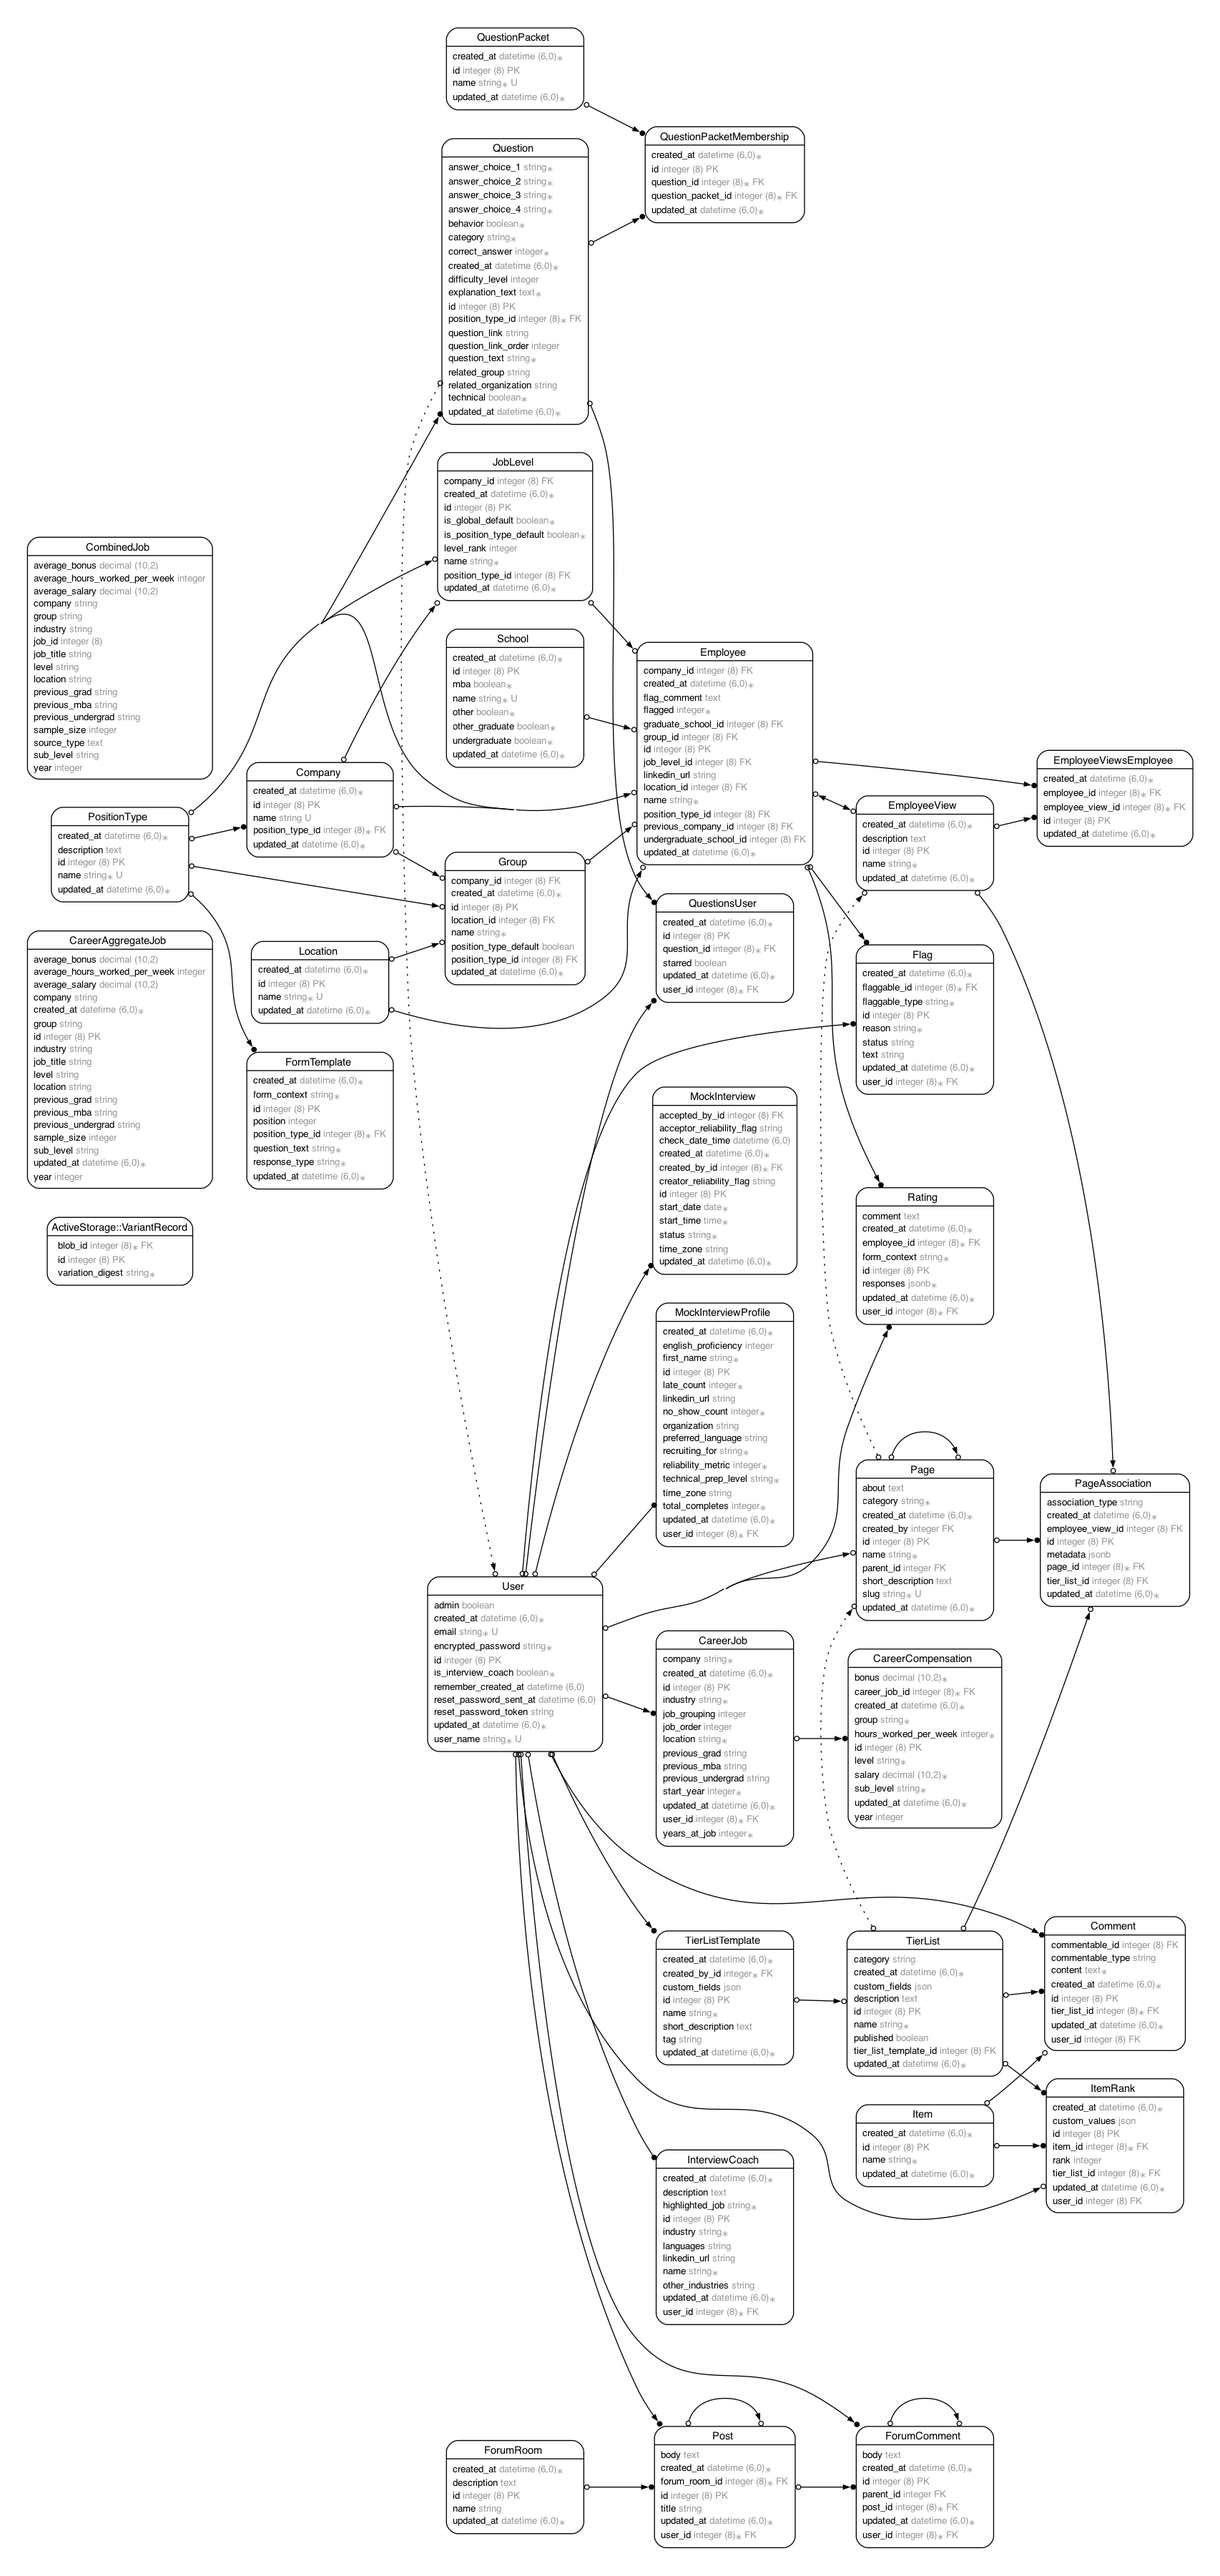
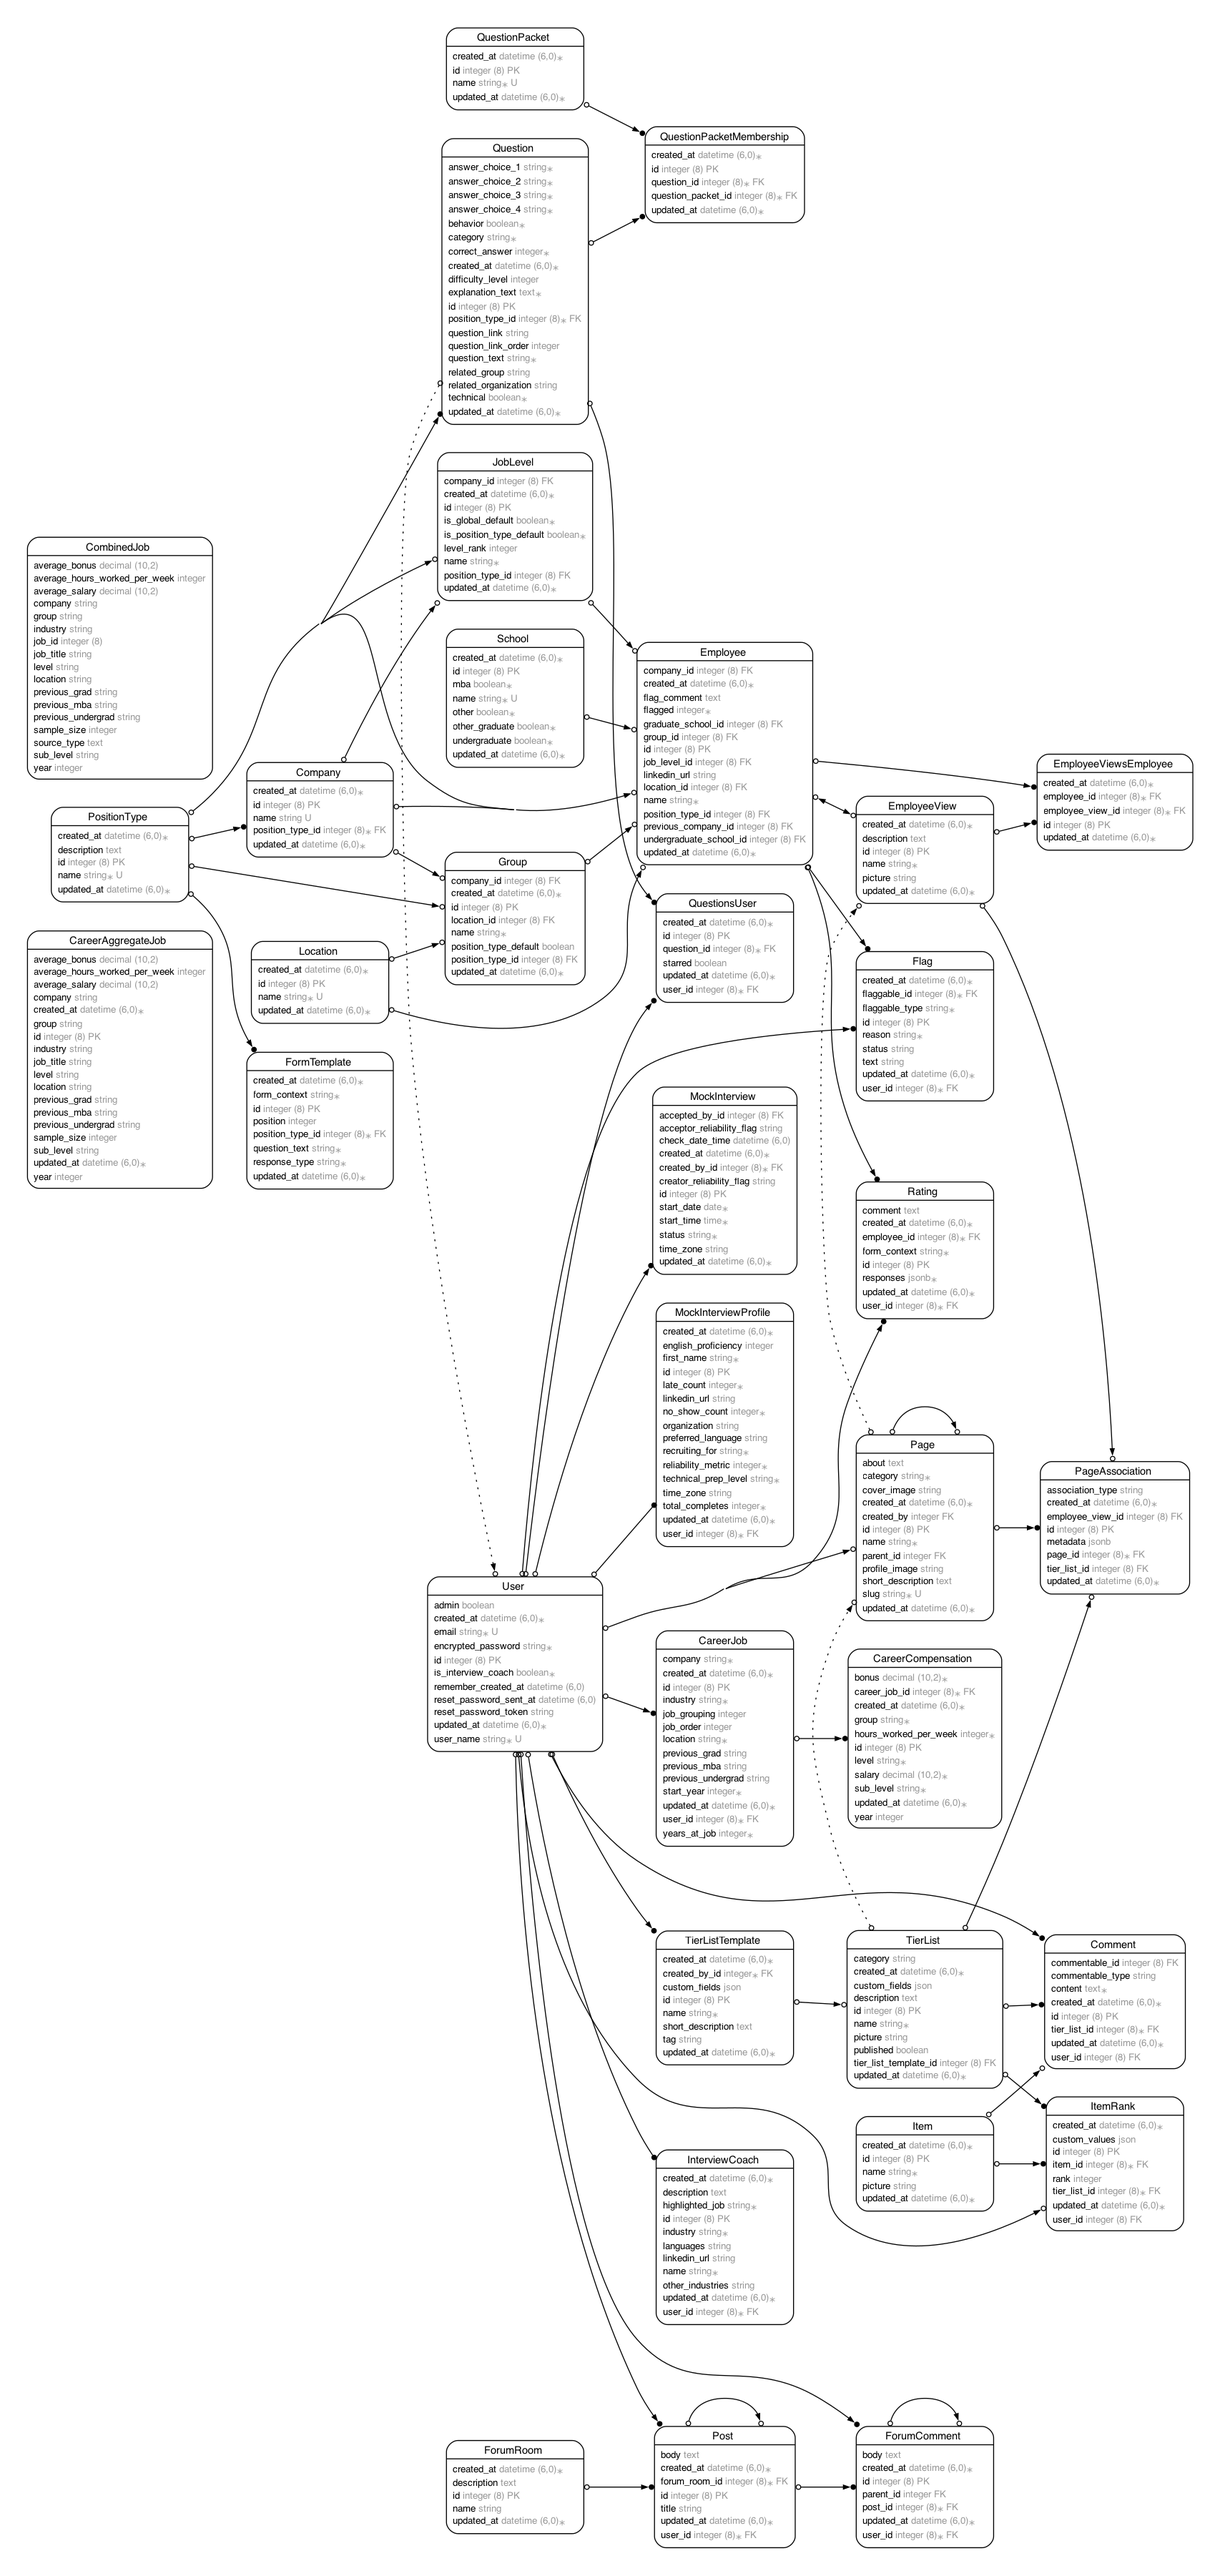
Made some updares to migrate from active storage to carreierwave

diff --git a/db/schema.rb b/db/schema.rb
@@ -10,27 +10,9 @@
 #
 # It's strongly recommended that you check this file into your version control system.
 
-ActiveRecord::Schema[7.1].define(version: 2025_02_14_000042) do
+ActiveRecord::Schema[7.1].define(version: 2025_02_14_133054) do
   # These are extensions that must be enabled in order to support this database
   enable_extension "plpgsql"
-
-  create_table "active_storage_blobs", force: :cascade do |t|
-    t.string "key", null: false
-    t.string "filename", null: false
-    t.string "content_type"
-    t.text "metadata"
-    t.string "service_name", null: false
-    t.bigint "byte_size", null: false
-    t.string "checksum"
-    t.datetime "created_at", null: false
-    t.index ["key"], name: "index_active_storage_blobs_on_key", unique: true
-  end
-
-  create_table "active_storage_variant_records", force: :cascade do |t|
-    t.bigint "blob_id", null: false
-    t.string "variation_digest", null: false
-    t.index ["blob_id", "variation_digest"], name: "index_active_storage_variant_records_uniqueness", unique: true
-  end
 
   create_table "career_aggregate_jobs", force: :cascade do |t|
     t.string "job_title"
@@ -109,6 +91,7 @@ ActiveRecord::Schema[7.1].define(version: 2025_02_14_000042) do
     t.text "description"
     t.datetime "created_at", null: false
     t.datetime "updated_at", null: false
+    t.string "picture"
   end
 
   create_table "employee_views_employees", force: :cascade do |t|
@@ -235,6 +218,7 @@ ActiveRecord::Schema[7.1].define(version: 2025_02_14_000042) do
     t.string "name"
     t.datetime "created_at", null: false
     t.datetime "updated_at", null: false
+    t.string "picture"
   end
 
   create_table "job_levels", force: :cascade do |t|
@@ -318,6 +302,8 @@ ActiveRecord::Schema[7.1].define(version: 2025_02_14_000042) do
     t.text "about"
     t.datetime "created_at", null: false
     t.datetime "updated_at", null: false
+    t.string "cover_image"
+    t.string "profile_image"
     t.index ["created_by"], name: "index_pages_on_created_by"
     t.index ["parent_id"], name: "index_pages_on_parent_id"
     t.index ["slug"], name: "index_pages_on_slug", unique: true
@@ -432,6 +418,7 @@ ActiveRecord::Schema[7.1].define(version: 2025_02_14_000042) do
     t.datetime "updated_at", null: false
     t.bigint "tier_list_template_id"
     t.string "category"
+    t.string "picture"
     t.index ["tier_list_template_id"], name: "index_tier_lists_on_tier_list_template_id"
   end
 
@@ -451,7 +438,6 @@ ActiveRecord::Schema[7.1].define(version: 2025_02_14_000042) do
     t.index ["user_name"], name: "index_users_on_user_name", unique: true
   end
 
-  add_foreign_key "active_storage_variant_records", "active_storage_blobs", column: "blob_id"
   add_foreign_key "career_compensations", "career_jobs", on_delete: :cascade
   add_foreign_key "career_jobs", "users"
   add_foreign_key "comments", "tier_lists"

diff --git a/app/uploaders/image_uploader.rb b/app/uploaders/image_uploader.rb
@@ -1,0 +1,50 @@
+class ImageUploader < CarrierWave::Uploader::Base
+  # Include RMagick or MiniMagick support:
+  # include CarrierWave::RMagick
+  # include CarrierWave::MiniMagick
+
+  # Choose what kind of storage to use for this uploader:
+  storage :file
+  # storage :fog
+
+  # Override the directory where uploaded files will be stored.
+  # This is a sensible default for uploaders that are meant to be mounted:
+  def store_dir
+    "uploads/#{model.class.to_s.underscore}/#{mounted_as}/#{model.id}"
+  end
+
+  # Provide a default URL as a default if there hasn't been a file uploaded:
+  # def default_url(*args)
+  #   # For Rails 3.1+ asset pipeline compatibility:
+  #   # ActionController::Base.helpers.asset_path("fallback/" + [version_name, "default.png"].compact.join('_'))
+  #
+  #   "/images/fallback/" + [version_name, "default.png"].compact.join('_')
+  # end
+
+  # Process files as they are uploaded:
+  # process scale: [200, 300]
+  #
+  # def scale(width, height)
+  #   # do something
+  # end
+
+  # Create different versions of your uploaded files:
+  version :thumb do
+    process resize_to_fit: [50, 50]
+  end
+
+  version :medium do
+    process resize_to_fit: [300, 300]
+  end
+
+  # Add a white list of extensions which are allowed to be uploaded
+  def extension_allowlist
+    %w(jpg jpeg gif png)
+  end
+
+  # Override the filename of the uploaded files:
+  # Avoid using model.id or version_name here, see uploader/store.rb for details.
+  # def filename
+  #   "something.jpg"
+  # end
+end

diff --git a/app/models/page.rb b/app/models/page.rb
@@ -5,8 +5,10 @@
 #  id                :bigint           not null, primary key
 #  about             :text
 #  category          :string           default("general"), not null
+#  cover_image       :string
 #  created_by        :integer
 #  name              :string           not null
+#  profile_image     :string
 #  short_description :text
 #  slug              :string           not null
 #  created_at        :datetime         not null
@@ -21,8 +23,8 @@
 #
 class Page < ApplicationRecord
 
-  has_one_attached :cover_image
-  has_one_attached :profile_image
+  mount_uploader :cover_image, ImageUploader
+  mount_uploader :profile_image, ImageUploader
 
   has_many :page_associations, dependent: :destroy
   has_many :employee_views, through: :page_associations

diff --git a/app/models/tier_list.rb b/app/models/tier_list.rb
@@ -7,6 +7,7 @@
 #  custom_fields         :json
 #  description           :text
 #  name                  :string           not null
+#  picture               :string
 #  published             :boolean
 #  created_at            :datetime         not null
 #  updated_at            :datetime         not null
@@ -21,6 +22,7 @@
 #  fk_rails_...  (tier_list_template_id => tier_list_templates.id)
 #
 class TierList < ApplicationRecord
+  mount_uploader :picture, ImageUploader
   has_one_attached :picture
   has_many :item_ranks, dependent: :destroy
   has_many :items, through: :item_ranks

diff --git a/app/models/item.rb b/app/models/item.rb
@@ -4,10 +4,12 @@
 #
 #  id         :bigint           not null, primary key
 #  name       :string
+#  picture    :string
 #  created_at :datetime         not null
 #  updated_at :datetime         not null
 #
 class Item < ApplicationRecord
+  mount_uploader :picture, ImageUploader
   has_one_attached :picture
   has_many :item_ranks, dependent: :destroy
   has_many :tier_lists, through: :item_ranks

diff --git a/app/models/employee_view.rb b/app/models/employee_view.rb
@@ -5,6 +5,7 @@
 #  id          :bigint           not null, primary key
 #  description :text
 #  name        :string
+#  picture     :string
 #  created_at  :datetime         not null
 #  updated_at  :datetime         not null
 #

diff --git a/db/migrate/20250214132031_add_image_columns_to_pages.rb b/db/migrate/20250214132031_add_image_columns_to_pages.rb
@@ -1,0 +1,6 @@
+class AddImageColumnsToPages < ActiveRecord::Migration[7.1]
+  def change
+    add_column :pages, :cover_image, :string
+    add_column :pages, :profile_image, :string
+  end
+end

diff --git a/db/migrate/20250214132545_add_picture_to_employee_views.rb b/db/migrate/20250214132545_add_picture_to_employee_views.rb
@@ -1,0 +1,5 @@
+class AddPictureToEmployeeViews < ActiveRecord::Migration[7.1]
+  def change
+    add_column :employee_views, :picture, :string
+  end
+end

diff --git a/db/migrate/20250214132544_add_picture_to_tier_lists.rb b/db/migrate/20250214132544_add_picture_to_tier_lists.rb
@@ -1,0 +1,5 @@
+class AddPictureToTierLists < ActiveRecord::Migration[7.1]
+  def change
+    add_column :tier_lists, :picture, :string
+  end
+end

diff --git a/db/migrate/20250214133054_add_picture_to_items.rb b/db/migrate/20250214133054_add_picture_to_items.rb
@@ -1,0 +1,5 @@
+class AddPictureToItems < ActiveRecord::Migration[7.1]
+  def change
+    add_column :items, :picture, :string
+  end
+end
